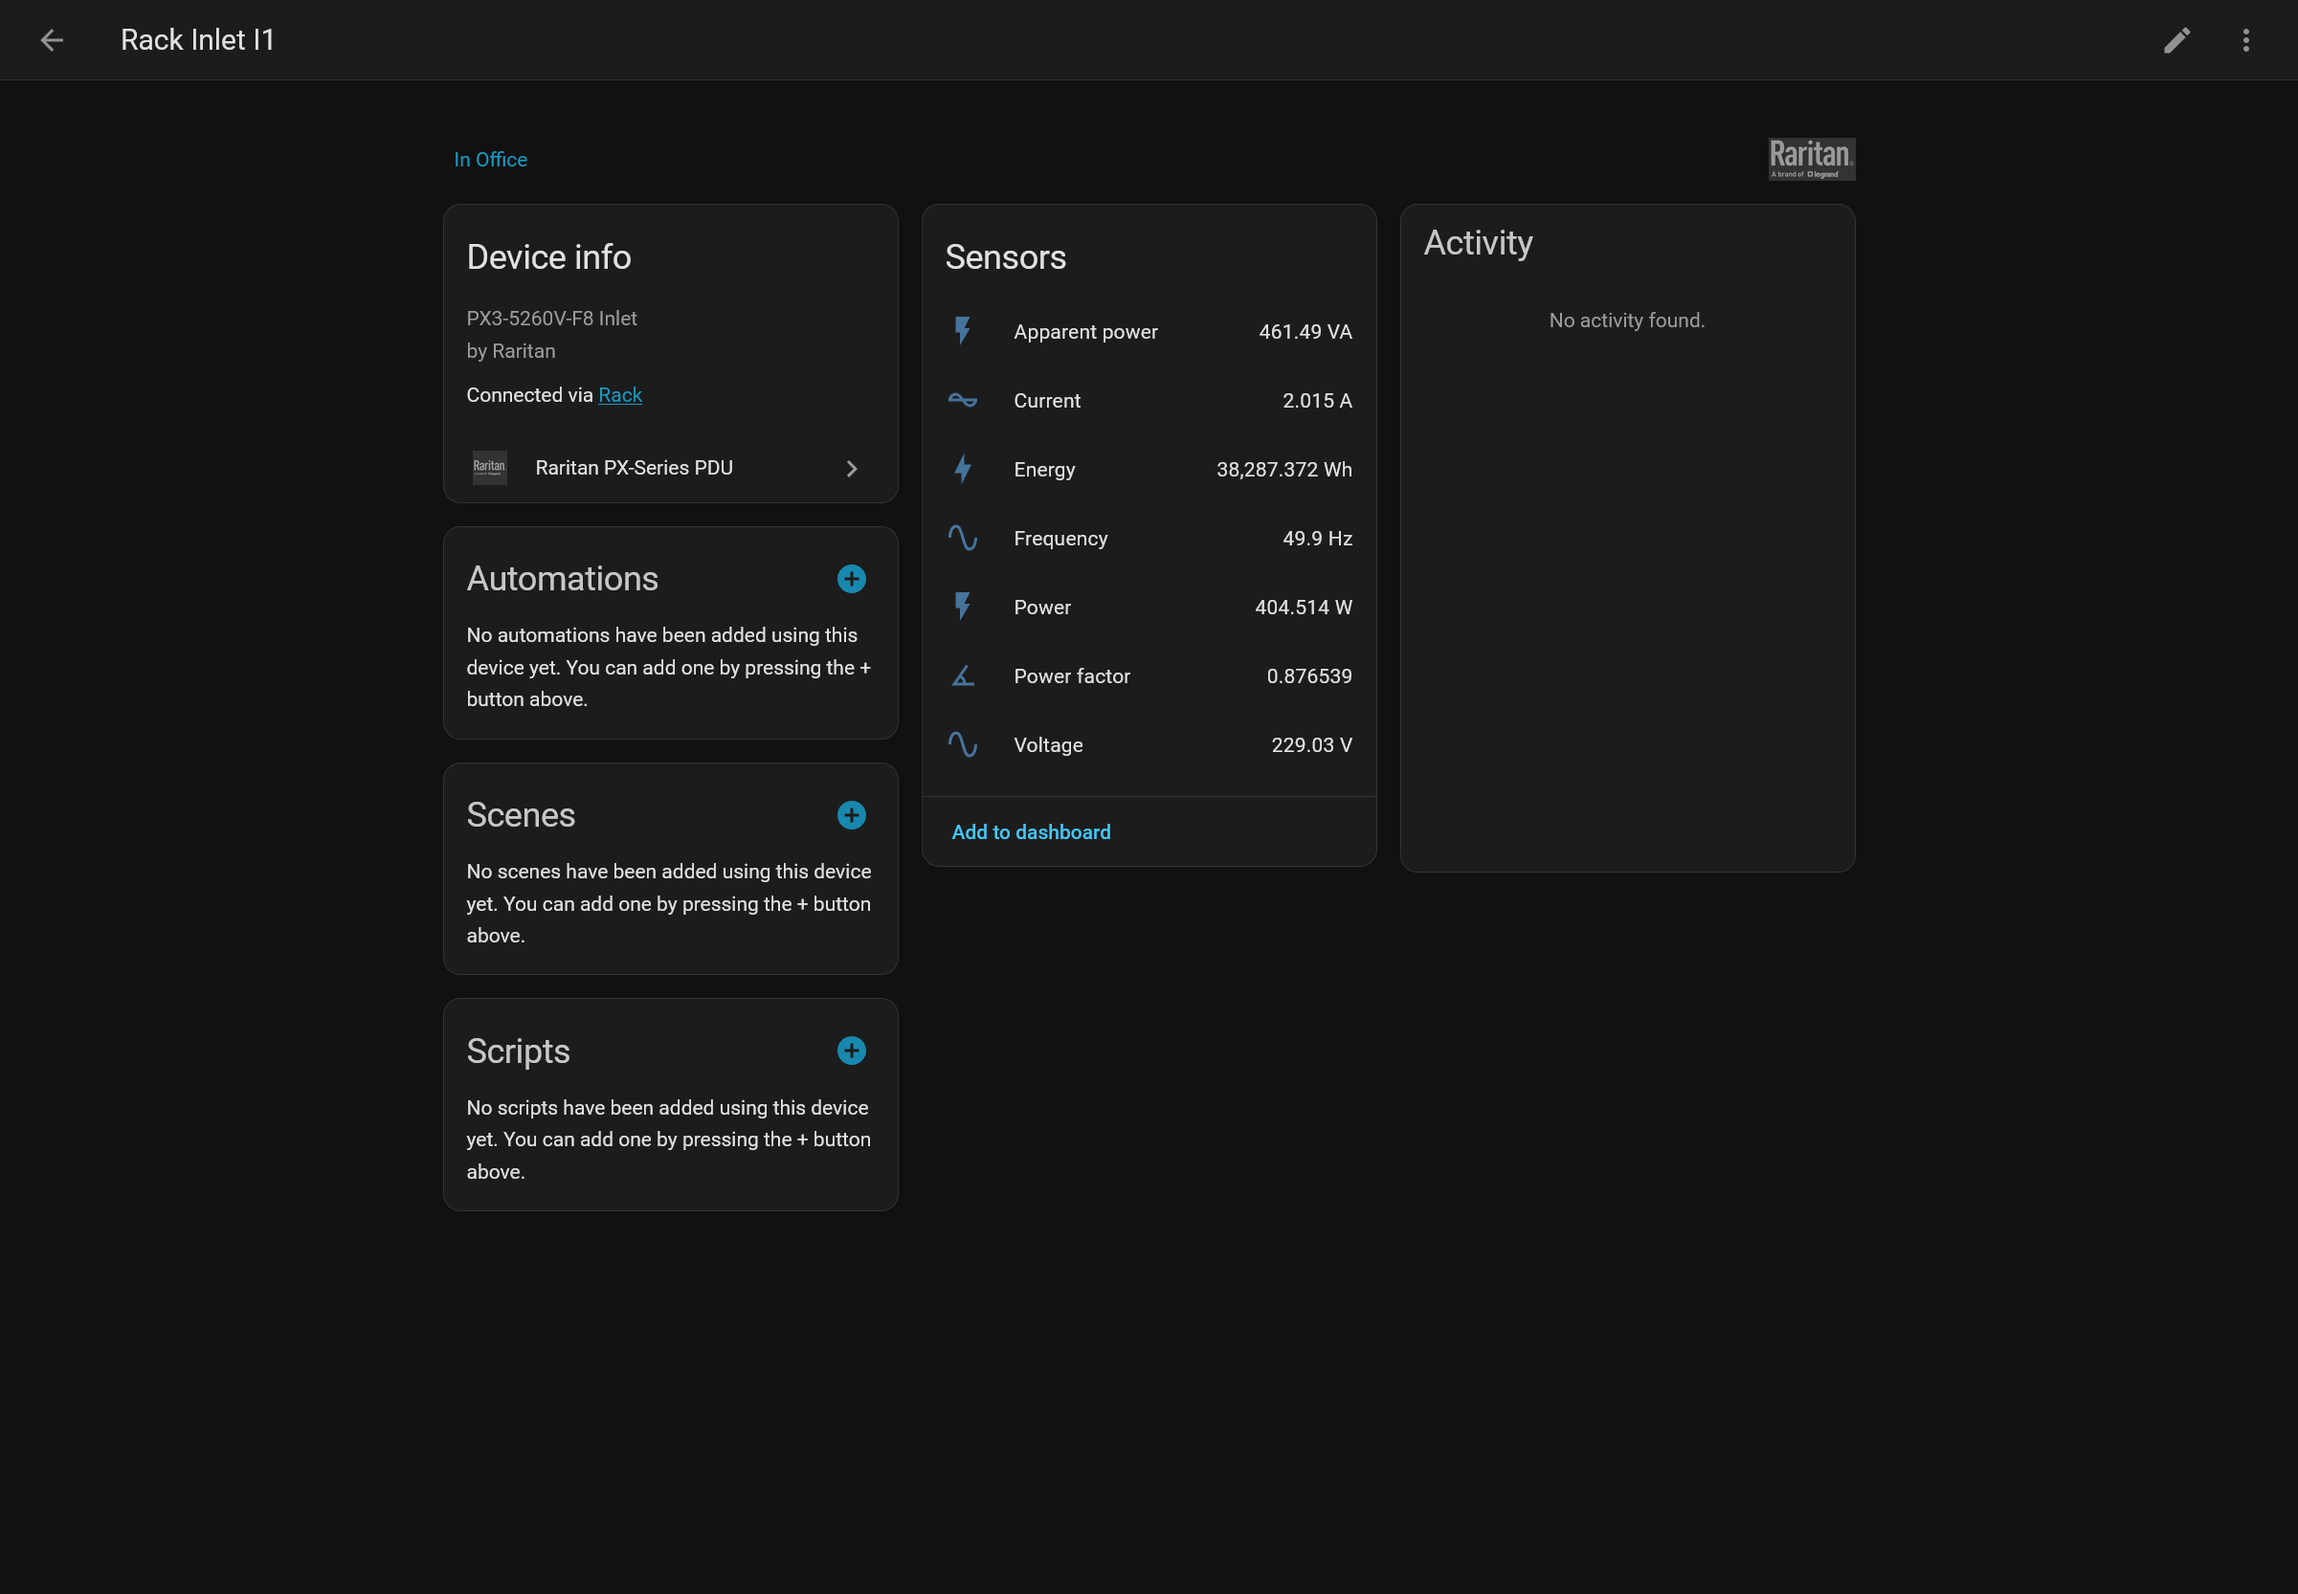
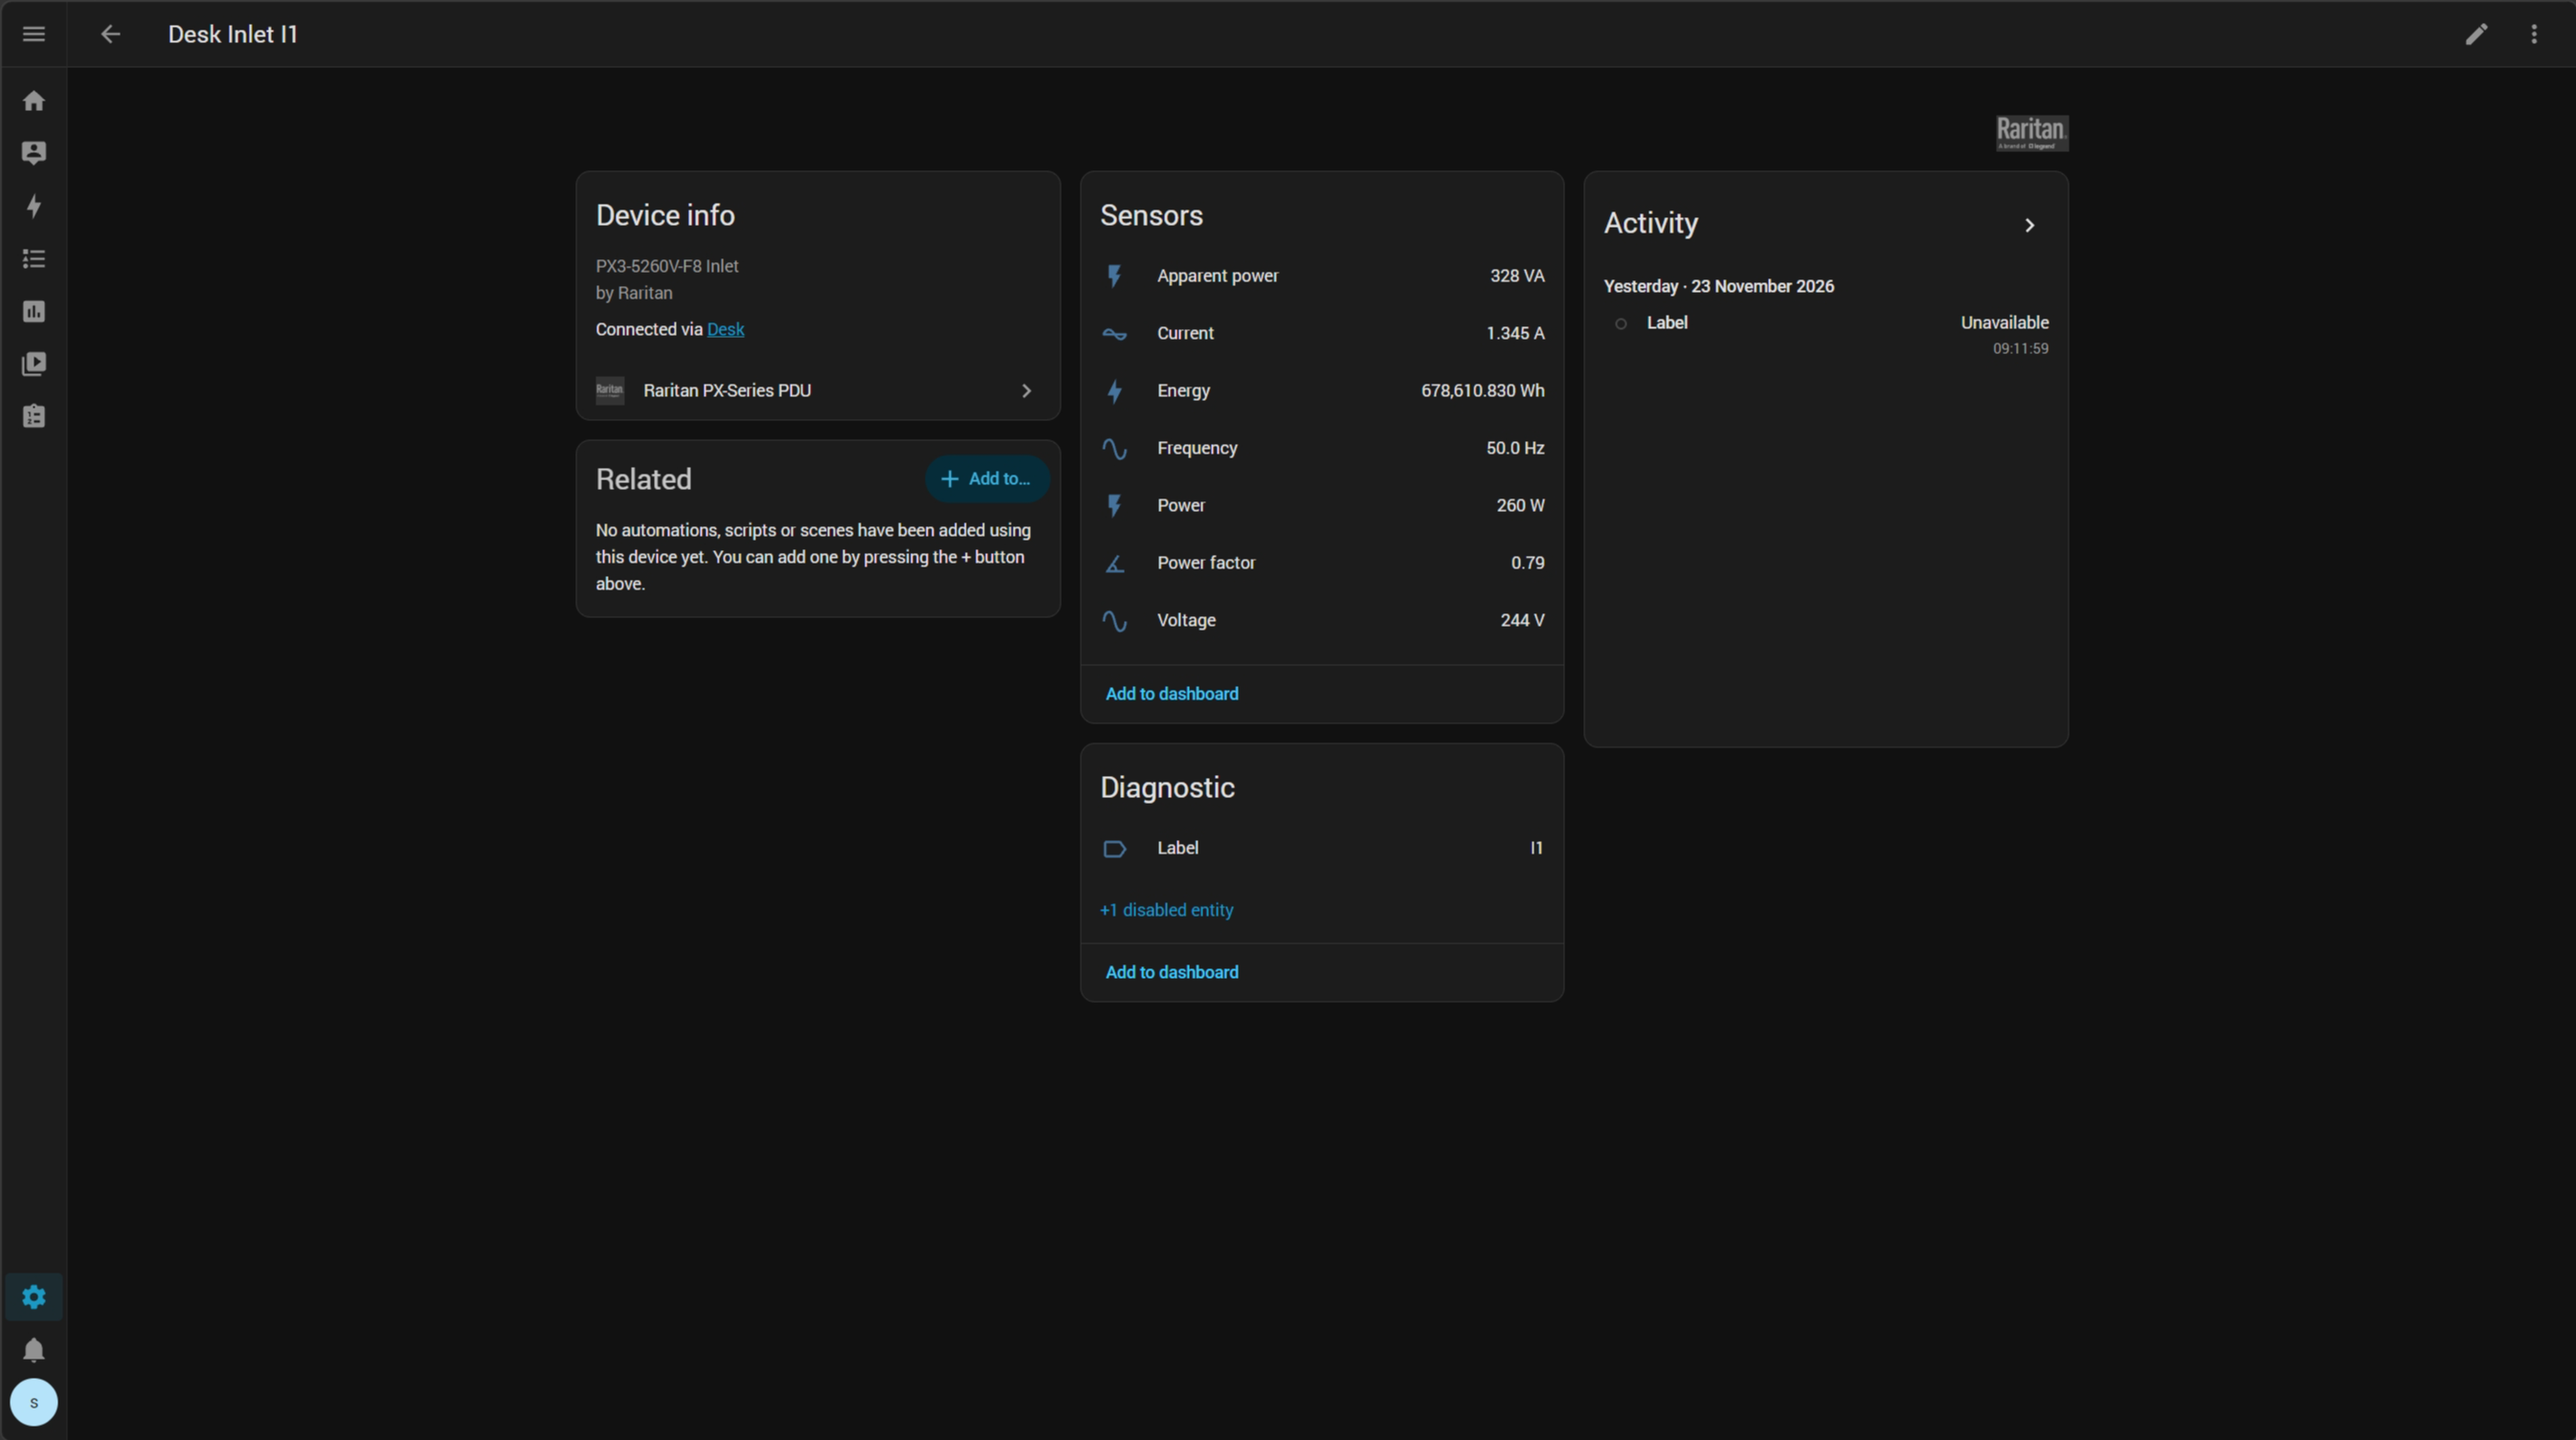
Updated screenshots

diff --git a/README.md b/README.md
@@ -36,6 +36,11 @@ Any PX-Series (`PX2`/`PX3`/`PX4`/`PXO`/`PXC`) PDU running Xerus `4.3.11` or grea
 > However, updating your PDU's firmware to the latest available version is recommended
 
 > [!NOTE]
+> Whilst any PX-Series PDU running Xerus 4.3.0 or greater _should_ work without problems, I can only test with the PDUs I own.
+>
+> PX-Series PDUs running Xerus 4.0.10 or greater _may_ work, but I have not checked the API changelog for breaking changes.
+>
+> PDUs made by other brands that also run Xerus 4.3.0 or greater (such as [Server Technology](https://www.servertech.com/) PRO4X PDUs) _may_ also work but are untested
 > PX-Series PDUs running Xerus `4.0.10` or greater _should_ work, but some features may not function correctly if the API had breaking changes
 
 > [!WARNING]
@@ -60,11 +65,13 @@ This integration is included in the default catalogue for [Home Assistant Market
 
 [^2]: Previously [HACS](https://github.com/hacs/integration) prior to Home Assistant 2026.11
 
+
 [![Open your Home Assistant instance and open this repository inside the Home Assistant Community Store.](https://my.home-assistant.io/badges/hacs_repository.svg)](https://my.home-assistant.io/redirect/hacs_repository/?owner=exterrestris&repository=home-assistant-raritan-px&category=integration)
 
 > [!NOTE]
 > If you have not previosly opened the Marketplace, you will be warned that Marketplace content is not supported by the Home Assistant project. Before you can install any Marketplace content, you will need to understand and accept that warning
 
+> [!WARNING]
 > [!WARNING]
 > If you are not comfortable with installing integrations that are not supported by the Home Assistant project, then **do not** install this integration
 
@@ -124,3 +131,6 @@ To install firmware updates, the user that Home Assistant uses to connect to you
 
 ### Outlet
 ![Screenshot of a Raritan PX-Series PDU Outlet in Home Assistant](./imgs/outlet-device.png)
+
+### Overcurrent Protector
+![Screenshot of a Raritan PX-Series PDU Overcurrent Protector in Home Assistant](./imgs/ocp-device.png)
